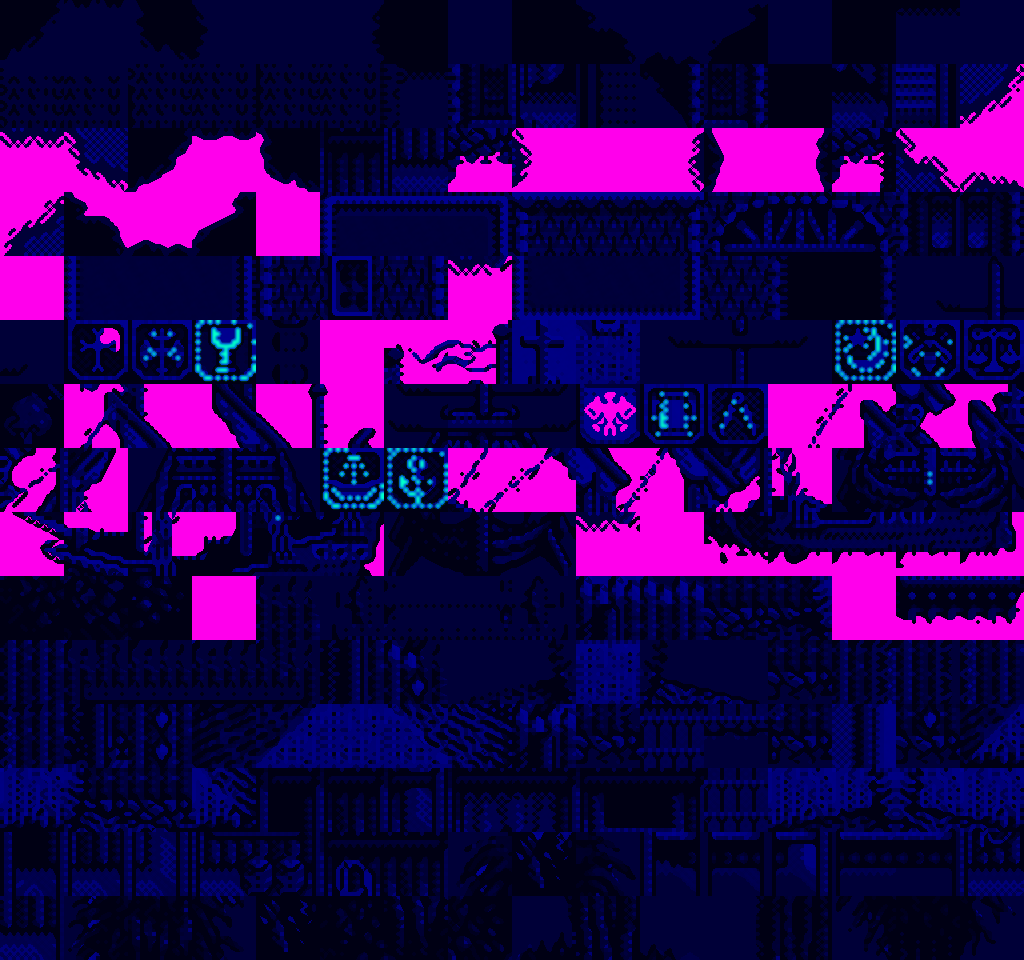
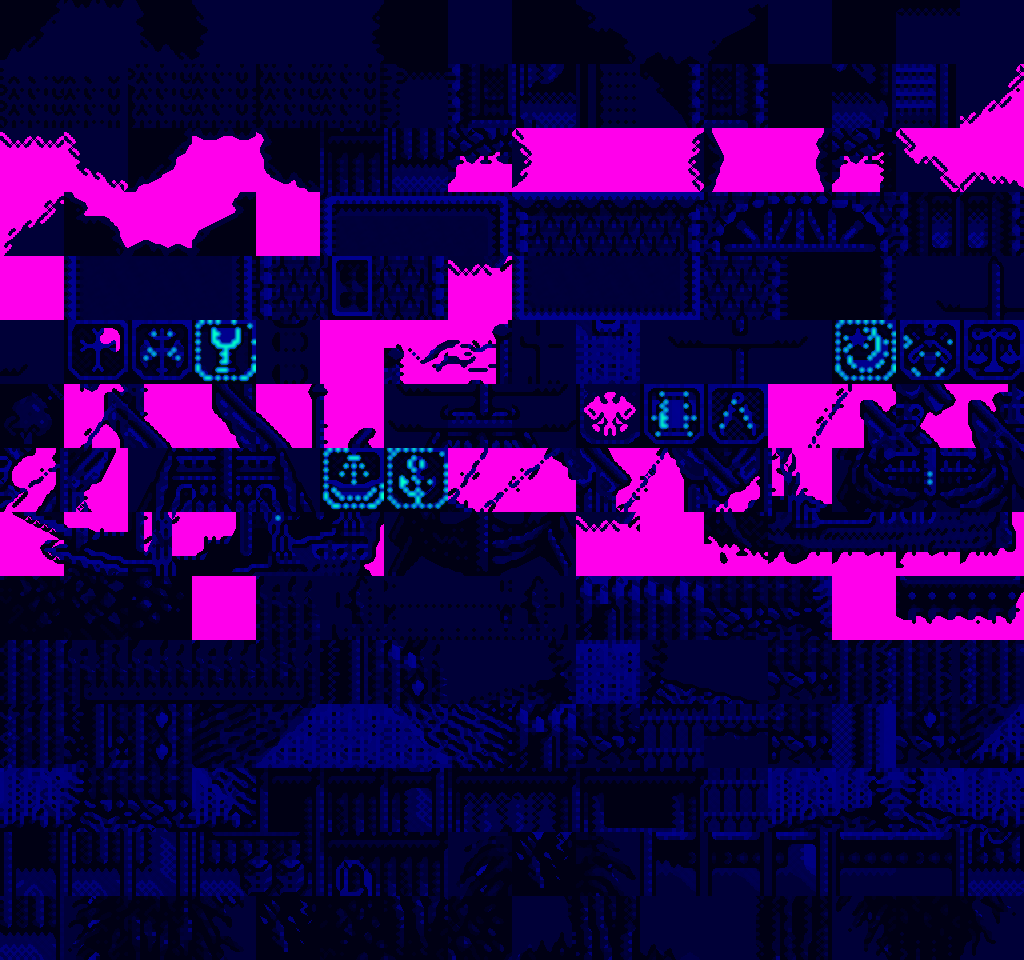
fix(art,hd2d): flatten beaches/puddles, mosques/church spires, and clear ship/palm dithered shadows across all 7 port sets

diff --git a/tools/build_hd_textures.py b/tools/build_hd_textures.py
@@ -411,12 +411,12 @@ def compute_portmap_context(meta: dict):
                 break
     return water_adj, open_edges
 
-# 排除纯米白石膏墙体/招牌图块被误判为沙地（如 s2 城墙、各图集行业招牌/纯墙砖）
+# 排除纯米白石膏墙体/招牌图块被误判为沙地（教堂顶十字架 s0:205/s1:53/s3:88 与清真寺尖塔 s2:155..178 均保留外围沙地剥离）
 WALL_PLAQUE_SKIP_SAND = {
-    0: {83, 205},
-    1: {53},
-    2: {22, 23, 27, 56, 76, 84, 86, 95, 97, 155, 156, 163, 166, 175, 178},
-    3: {88, 89, 169, 181, 189},
+    0: {83},
+    1: set(),
+    2: {22, 23, 27, 56, 76, 84, 86, 95, 97, 219, 234, 235},
+    3: {89, 169, 181, 189},
     4: {44, 45, 46, 47, 110},
     5: {54, 62, 97},
     6: {56, 77, 78, 79, 87, 88, 89, 97, 98, 99, 157},
@@ -549,6 +549,10 @@ def process_portchip_sheet(set_idx: int, p1: int, p2: int, p3: int, mats, water_
             is_walk = (t_id < p2) and not is_arch_walk
             is_tree_tile = (t_id >= p2) and (int(np.sum((tile_idx == 13) | (tile_idx == 14))) >= 120) and not np.any(is_water) and (c0_cnt >= 8)
             is_shore_tile = (t_id >= p2) and np.any(is_water) and (int(np.sum((tile_idx == 13) | (tile_idx == 14))) >= 18)
+            is_flat_beach = (t_id >= p2) and np.any(is_water) and (
+                c0_cnt <= 20
+                or (c0_cnt <= 32 and int(np.sum((tile_idx == 8) | (tile_idx == 10) | (tile_idx == 11) | (tile_idx == 13) | (tile_idx == 14) | (tile_idx == 15))) >= 150)
+            )
 
             outer_sand, outer_grass = extract_outer_ground(
                 tile_idx, set_idx, t_id, p2, open_edge_map.get(t_id, {}), is_water, t_id in water_adj_set
@@ -581,11 +585,14 @@ def process_portchip_sheet(set_idx: int, p1: int, p2: int, p3: int, mats, water_
                 outer_bg = outer_grass
                 sem[outer_grass] = 3
             else:
-                if np.any(is_water):
+                if is_flat_beach:
+                    sem[((tile_idx == 13) | (tile_idx == 14)) & ~is_water] = 3
+                    sem[((tile_idx == 8) | (tile_idx == 10) | (tile_idx == 11) | (tile_idx == 15)) & ~is_water] = 2
+                elif np.any(is_water):
                     sem[((tile_idx == 13) | (tile_idx == 14)) & ~is_water] = 3
                     blk_pad = np.pad((tile_idx == 0).astype(np.int32), ((1, 1), (1, 1)), mode="edge")
                     blk_near = sum(blk_pad[dy:dy + tile_sz, dx:dx + tile_sz] for dy in range(3) for dx in range(3))
-                    sem[((tile_idx == 10) | (tile_idx == 11)) & (blk_near == 0) & ~is_water] = 2
+                    sem[((tile_idx == 10) | (tile_idx == 11) | (tile_idx == 15)) & (blk_near == 0) & ~is_water] = 2
                 if np.any(outer_sand):
                     sem[outer_sand] = 2
                 if np.any(outer_grass):
@@ -594,13 +601,19 @@ def process_portchip_sheet(set_idx: int, p1: int, p2: int, p3: int, mats, water_
                 sem[tile_idx == 0] = 0
             sem[is_water] = 1
 
-            # 1) Albedo: 地面、海岸草坡与树格使用地面色盘；道具/船/沙漠屋顶的外围裸露地面也使用地面色盘以无缝衔接铺石
-            pairs = GROUND_DITHER_PAIRS if (is_walk or is_shore_tile or is_tree_tile) else ARCH_DITHER_PAIRS
-            tile_pal = MODERN_GROUND_PAL if (is_walk or is_tree_tile or is_shore_tile) else MODERN_ARCH_PAL
+            # 1) Albedo: 地面、平坦海岸线与树格使用地面色盘；道具/船/尖塔/十字架/沙漠屋顶的外围裸露地面也使用地面色盘以无缝衔接铺石
+            pairs = GROUND_DITHER_PAIRS if (is_walk or is_shore_tile or is_flat_beach or is_tree_tile) else ARCH_DITHER_PAIRS
+            if is_flat_beach:
+                pairs = pairs | {(8, 11), (11, 8), (8, 10), (10, 8)}
+            tile_pal = MODERN_GROUND_PAL if (is_walk or is_tree_tile or is_shore_tile or is_flat_beach) else MODERN_ARCH_PAL
             base_16 = dedither_tile_rgb(tile_idx, tile_pal, pairs, is_water=is_water, wrap_edges=(is_walk and t_id < p1 and not is_ground_shadow_tile and not is_road_curb))
-            if not (is_walk or is_tree_tile or is_shore_tile) and np.any(outer_bg):
+            if not (is_walk or is_tree_tile or is_shore_tile or is_flat_beach) and np.any(outer_bg):
                 ext_pairs = GROUND_DITHER_PAIRS | {(8, 11), (11, 8), (8, 10), (10, 8)}
                 base_ext = dedither_tile_rgb(tile_idx, MODERN_GROUND_PAL, ext_pairs, is_water=is_water, wrap_edges=False)
+                if set_idx == 3 and np.any(outer_sand & (tile_idx == 8)):
+                    # 清除 set 3 旱坞船体 (114/125) 与椰树 (235) 左侧原版 1993 灰格假影，由 WebGL2 实时光线统一投射斜影
+                    clean_sand = MODERN_GROUND_PAL[11] * 0.48 + MODERN_GROUND_PAL[15] * 0.52
+                    base_ext[outer_sand & ((tile_idx == 8) | (tile_idx == 10))] = clean_sand
                 base_16 = np.where(outer_bg[:, :, None], base_ext, base_16)
             if is_ground_shadow_tile and not is_stone_shadow_tile:
                 if is_grass_shadow_tile:
@@ -698,7 +711,7 @@ def process_portchip_sheet(set_idx: int, p1: int, p2: int, p3: int, mats, water_
                         void_16 |= vm
             void_64 = np.repeat(np.repeat(void_16, 4, axis=0), 4, axis=1)
 
-            if (is_walk and not is_arch_walk) or pure_water_ripple_tile or is_road_curb:
+            if (is_walk and not is_arch_walk) or pure_water_ripple_tile or is_road_curb or is_flat_beach:
                 tile_elev = np.zeros_like(micro_height)
             elif is_tree_tile:
                 # 仅树木剪影内部填洞隆起（绝不到图块方框边！）
